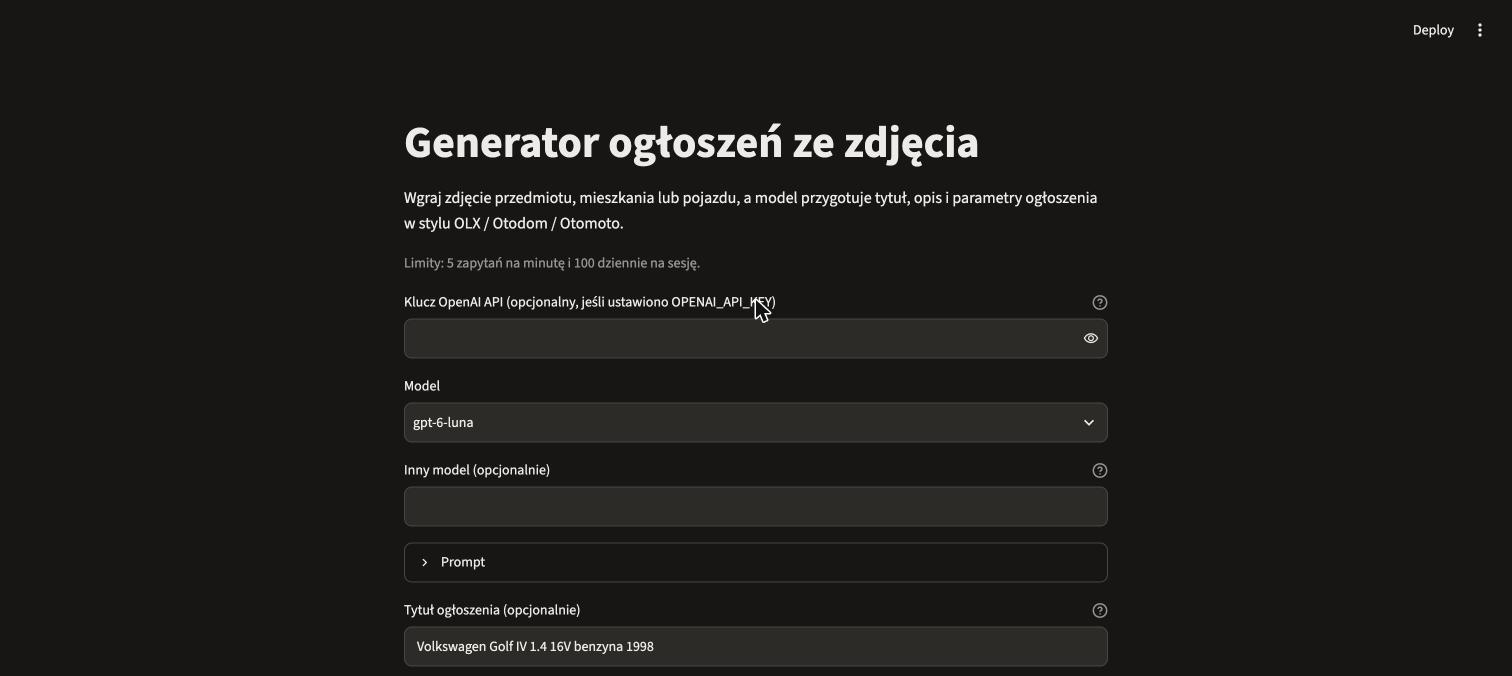
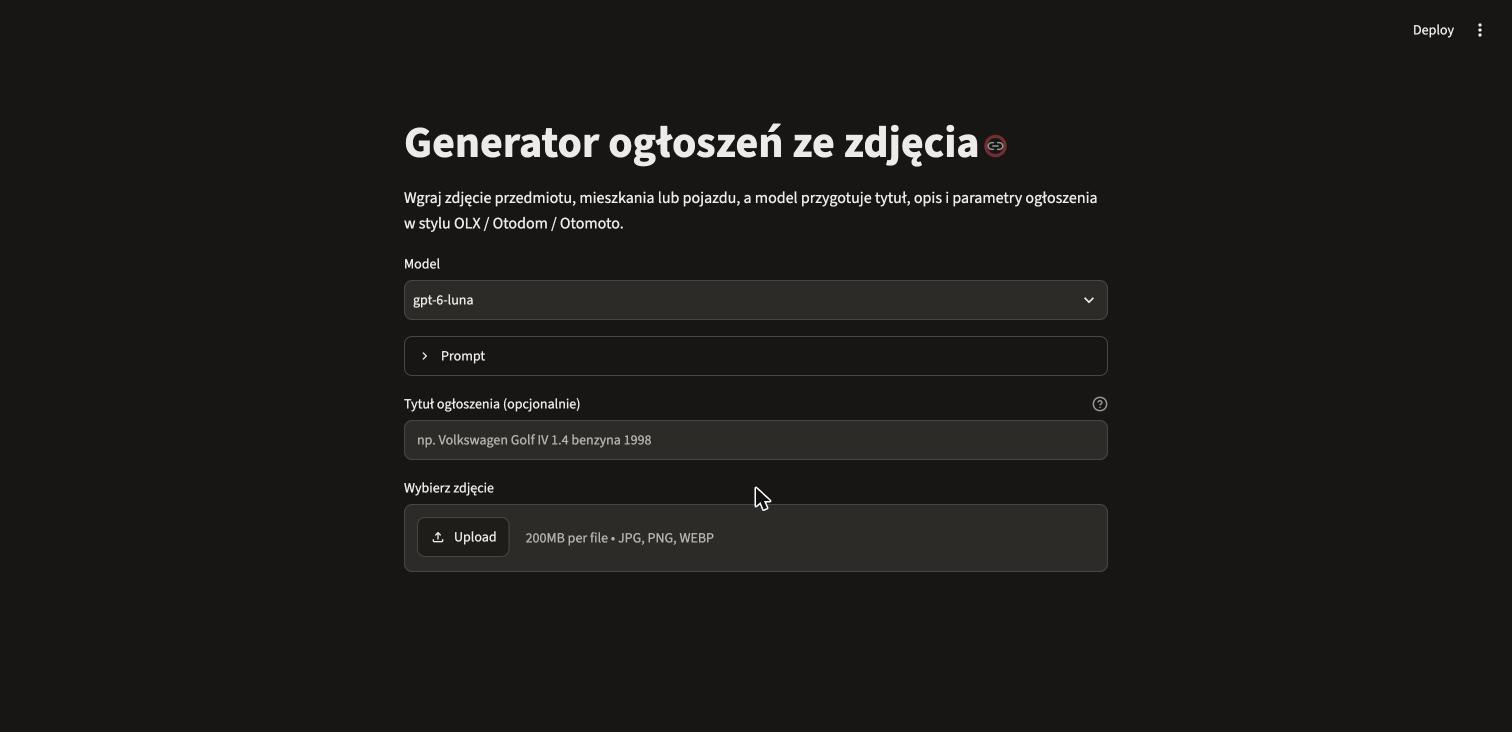
Projekt 3: uproszczony formularz (bez klucza API, limitów i własnego modelu)

diff --git a/projekt_3/app.py b/projekt_3/app.py
@@ -1,13 +1,11 @@
 import streamlit as st
-import os
-import time
-from datetime import date
-from streamlit.errors import StreamlitSecretNotFoundError
 from openai import OpenAI
+from streamlit.errors import StreamlitSecretNotFoundError
+
 from utils import DEFAULT_PROMPT, build_prompt, generate_listing, resolve_api_key
 
-FALLBACK_MODELS = ["gpt-6-luna", "gpt-6.1-terra", "gpt-6.2-sol", "gpt-4.1-mini"]
-DEFAULT_MODEL = "gpt-6-luna"
+MODELS = ["gpt-6-luna", "gpt-6.1-terra", "gpt-6.2-sol", "gpt-4.1-mini"]
+
 
 def get_secret(name, default=""):
     try:
@@ -15,136 +13,55 @@ def get_secret(name, default=""):
     except StreamlitSecretNotFoundError:
         return default
 
-DISABLE_MANUAL_API_KEY_INPUT = (
-    str(get_secret("DISABLE_MANUAL_API_KEY_INPUT", "")).lower() in {"1", "true", "yes"}
-)
 
-def get_int_config(name, default):
-    raw_value = get_secret(name, os.environ.get(name, default))
-    try:
-        value = int(raw_value)
-        return value if value > 0 else default
-    except (TypeError, ValueError):
-        return default
-
-MAX_REQUESTS_PER_MINUTE = get_int_config("MAX_REQUESTS_PER_MINUTE", 5)
-MAX_REQUESTS_PER_DAY = get_int_config("MAX_REQUESTS_PER_DAY", 100)
-
-def fetch_available_gpt_models(client):
-    models = client.models.list()
-    available_model_ids = {model.id for model in models.data}
-    allowed_models = [model for model in FALLBACK_MODELS if model in available_model_ids]
-    return allowed_models
-
-# Streamlit app layout
 st.set_page_config(page_title="Generator ogłoszeń", page_icon=":camera:")
 st.title("Generator ogłoszeń ze zdjęcia")
 st.write("Wgraj zdjęcie przedmiotu, mieszkania lub pojazdu, a model przygotuje tytuł, opis i parametry ogłoszenia w stylu OLX / Otodom / Otomoto.")
-st.caption(
-    f"Limity: {MAX_REQUESTS_PER_MINUTE} zapytań na minutę i {MAX_REQUESTS_PER_DAY} dziennie na sesję."
+
+api_key = resolve_api_key() or get_secret("OPENAI_API_KEY", "")
+if not api_key:
+    st.warning("Brak klucza API: ustaw OPENAI_API_KEY w pliku .env lub w Streamlit secrets.")
+    st.stop()
+
+client = OpenAI(api_key=api_key)
+model = st.selectbox("Model", MODELS)
+
+with st.expander("Prompt"):
+    prompt = st.text_area("Prompt", value=DEFAULT_PROMPT, height=380, label_visibility="collapsed")
+
+title = st.text_input(
+    "Tytuł ogłoszenia (opcjonalnie)",
+    placeholder="np. Volkswagen Golf IV 1.4 benzyna 1998",
+    help="Jeśli podasz tytuł, model wykorzysta zawarte w nim fakty w opisie i parametrach.",
 )
 
-api_key = resolve_api_key()
-if not api_key:
-    api_key = get_secret("OPENAI_API_KEY", "")
+uploaded_file = st.file_uploader("Wybierz zdjęcie", type=["jpg", "jpeg", "png", "webp"])
 
-if not DISABLE_MANUAL_API_KEY_INPUT:
-    manual_api_key = st.text_input(
-        "Klucz OpenAI API (opcjonalny, jeśli ustawiono OPENAI_API_KEY)",
-        type="password",
-        help="Jeśli puste, aplikacja użyje OPENAI_API_KEY ze zmiennych środowiskowych lub Streamlit secrets.",
-    )
-    if manual_api_key:
-        api_key = manual_api_key
+if uploaded_file is not None:
+    st.image(uploaded_file, caption="Wgrane zdjęcie", width="stretch")
 
-if api_key:
-    client = OpenAI(api_key=api_key)
-    try:
-        available_models = fetch_available_gpt_models(client)
-    except Exception as e:
-        available_models = FALLBACK_MODELS
-        st.warning(f"Could not fetch models from API. Using fallback list. Details: {e}")
-
-    if not available_models:
-        available_models = FALLBACK_MODELS
-        st.warning("No GPT models were returned by the API. Using fallback model list.")
-
-    default_model = DEFAULT_MODEL if DEFAULT_MODEL in available_models else available_models[0]
-    default_index = available_models.index(default_model)
-    model_choice = st.selectbox("Model", available_models, index=default_index)
-    custom_model = st.text_input(
-        "Inny model (opcjonalnie)",
-        value="",
-        help="Jeśli podasz, zastąpi model wybrany powyżej.",
-    )
-
-    with st.expander("Prompt"):
-        prompt = st.text_area("Prompt", value=DEFAULT_PROMPT, height=380, label_visibility="collapsed")
-
-    title = st.text_input(
-        "Tytuł ogłoszenia (opcjonalnie)",
-        placeholder="np. Volkswagen Golf IV 1.4 benzyna 1998",
-        help="Jeśli podasz tytuł, model wykorzysta zawarte w nim fakty w opisie i parametrach.",
-    )
-
-    uploaded_file = st.file_uploader("Wybierz zdjęcie", type=["jpg", "jpeg", "png", "webp"])
-
-    if uploaded_file is not None:
+    if st.button("Generuj ogłoszenie", type="primary"):
         try:
-            st.image(uploaded_file, caption="Wgrane zdjęcie", width="stretch")
-
-            if st.button("Generuj ogłoszenie", type="primary"):
-                if "request_timestamps" not in st.session_state:
-                    st.session_state["request_timestamps"] = []
-                if "daily_usage" not in st.session_state:
-                    st.session_state["daily_usage"] = {"date": date.today().isoformat(), "count": 0}
-
-                now = time.time()
-                recent_timestamps = [
-                    ts for ts in st.session_state["request_timestamps"] if now - ts < 60
-                ]
-                st.session_state["request_timestamps"] = recent_timestamps
-
-                if len(recent_timestamps) >= MAX_REQUESTS_PER_MINUTE:
-                    st.error("Rate limit reached: too many requests in the last minute. Please wait.")
-                    st.stop()
-
-                today = date.today().isoformat()
-                if st.session_state["daily_usage"]["date"] != today:
-                    st.session_state["daily_usage"] = {"date": today, "count": 0}
-
-                if st.session_state["daily_usage"]["count"] >= MAX_REQUESTS_PER_DAY:
-                    st.error("Daily limit reached for this session. Please try again tomorrow.")
-                    st.stop()
-
-                st.session_state["request_timestamps"].append(now)
-                st.session_state["daily_usage"]["count"] += 1
-
-                with st.spinner("Generuję ogłoszenie..."):
-                    final_prompt = build_prompt(prompt.strip() or DEFAULT_PROMPT, title)
-                    final_model = custom_model.strip() or model_choice
-                    result = generate_listing(client, uploaded_file.getvalue(), final_prompt, final_model)
-
-                listing = result["listing"]
-                st.caption(
-                    f"{listing.get('platforma', '')} · {listing.get('kategoria', '')} · model {final_model} · "
-                    f"{result['seconds']} s · tokeny: {result['input_tokens']} we / {result['output_tokens']} wy"
-                )
-                st.subheader(listing.get("tytul", ""))
-                st.write(listing.get("opis", ""))
-                if listing.get("parametry"):
-                    st.markdown("**Parametry**")
-                    st.table({"Parametr": list(listing["parametry"].keys()),
-                              "Wartość": [str(v) for v in listing["parametry"].values()]})
-                if listing.get("do_uzupelnienia"):
-                    st.markdown("**Do uzupełnienia przez sprzedającego**")
-                    st.markdown("\n".join(f"- {item}" for item in listing["do_uzupelnienia"]))
-                with st.expander("Odpowiedź modelu (JSON)"):
-                    st.json(listing)
+            with st.spinner("Generuję ogłoszenie..."):
+                final_prompt = build_prompt(prompt.strip() or DEFAULT_PROMPT, title)
+                result = generate_listing(client, uploaded_file.getvalue(), final_prompt, model)
         except Exception as e:
-            st.error(f"Error: {e}")
-else:
-    if DISABLE_MANUAL_API_KEY_INPUT:
-        st.warning("No API key configured. Set OPENAI_API_KEY in environment variables or Streamlit secrets.")
-    else:
-        st.warning("Please provide an API key in the field above or set OPENAI_API_KEY locally.")
+            st.error(f"Błąd: {e}")
+            st.stop()
+
+        listing = result["listing"]
+        st.caption(
+            f"{listing.get('platforma', '')} · {listing.get('kategoria', '')} · model {model} · "
+            f"{result['seconds']} s · tokeny: {result['input_tokens']} we / {result['output_tokens']} wy"
+        )
+        st.subheader(listing.get("tytul", ""))
+        st.write(listing.get("opis", ""))
+        if listing.get("parametry"):
+            st.markdown("**Parametry**")
+            st.table({"Parametr": list(listing["parametry"].keys()),
+                      "Wartość": [str(v) for v in listing["parametry"].values()]})
+        if listing.get("do_uzupelnienia"):
+            st.markdown("**Do uzupełnienia przez sprzedającego**")
+            st.markdown("\n".join(f"- {item}" for item in listing["do_uzupelnienia"]))
+        with st.expander("Odpowiedź modelu (JSON)"):
+            st.json(listing)

diff --git a/projekt_3/RAPORT_ETAP1.md b/projekt_3/RAPORT_ETAP1.md
@@ -4,7 +4,7 @@
 
 Na bazie template'u `streamlit_image_processing` zbudowaliśmy działającą lokalnie aplikację (część 1 projektu):
 
-- wgranie zdjęcia (jpg, png, webp) i wybór modelu OpenAI (`gpt-6-luna`, `gpt-6.1-terra`, `gpt-6.2-sol`, `gpt-4.1-mini` albo dowolny inny ID);
+- wgranie zdjęcia (jpg, png, webp) i wybór modelu OpenAI (`gpt-6-luna`, `gpt-6.1-terra`, `gpt-6.2-sol`, `gpt-4.1-mini`);
 - nowy prompt: model rozpoznaje typ obiektu, dobiera platformę (Otodom / Otomoto / OLX) i zwraca JSON z **tytułem, opisem, parametrami** i listą informacji **do uzupełnienia** przez sprzedającego;
 - **rozszerzenie:** opcjonalne pole „Tytuł ogłoszenia”; jego fakty trafiają do opisu i parametrów;
 - wynik jako sformatowane ogłoszenie (tytuł, opis, tabela parametrów), pod nim czas odpowiedzi i liczba tokenów, a w rozwijanym panelu surowy JSON;
